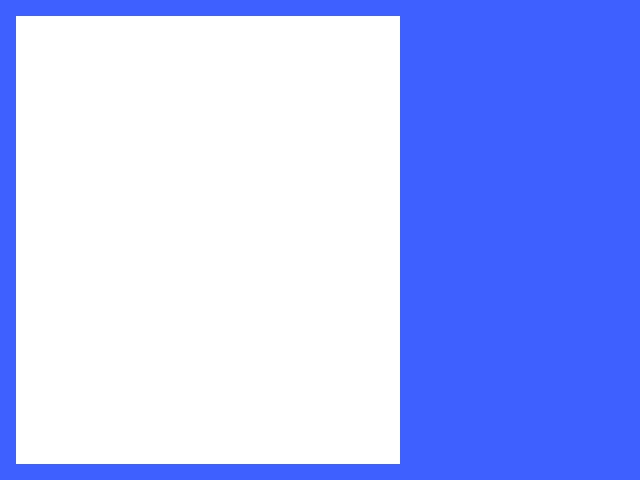
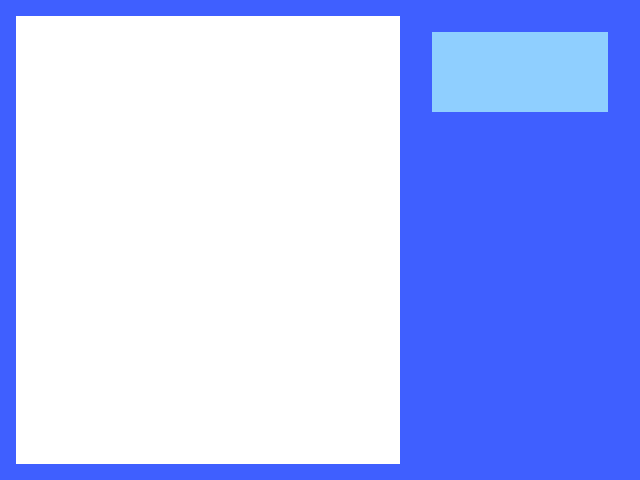
updated HUD

Changed region(s): [[0.6562, 0.0625, 0.9688, 0.25]]

diff --git a/src/game/Game.java b/src/game/Game.java
@@ -228,7 +228,7 @@ public class Game extends Canvas implements Runnable{
 		at.scale(SCALE/ScreenResolutionConstant.res, SCALE/ScreenResolutionConstant.res);
 		g.setTransform(at);
 		g.drawImage(image, 0, 0, getWidth(), getHeight(), this);
-		g.setColor(Color.WHITE);
+		Font fpsfont = g.getFont();
 
 		if(state == STATE.PLAY || state == STATE.PAUSE || state == STATE.GAME_OVER) {
 			playerChar.drawPlayer(g, this);
@@ -238,6 +238,10 @@ public class Game extends Canvas implements Runnable{
 			playerChar.drawHitbox(g, this);
 			playerChar.drawPlayerDeathAnim(g, this);
 			g.drawImage(HUD, 0, 0, this);
+			Font scoreFont = new Font("THBiolinum", Font.PLAIN, 24);
+			g.setColor(new Color(0x4f4f4f));
+			g.setFont(scoreFont);
+			g.drawString("Score: ", 440, 48);
 		}
 		if(state == STATE.MENU) {
 			for(int i = 0; i < menuList.length; i++) {
@@ -247,7 +251,8 @@ public class Game extends Canvas implements Runnable{
 			}
 		}
 		if(state == STATE.PAUSE || state == STATE.GAME_OVER) pauseMenu.render(g);
-
+		g.setFont(fpsfont);
+		g.setColor(Color.WHITE);
 		g.drawString(String.format("%.2f", measuredFpS), 10, 10);
 		g.dispose();
 		bufferStrat.show();
